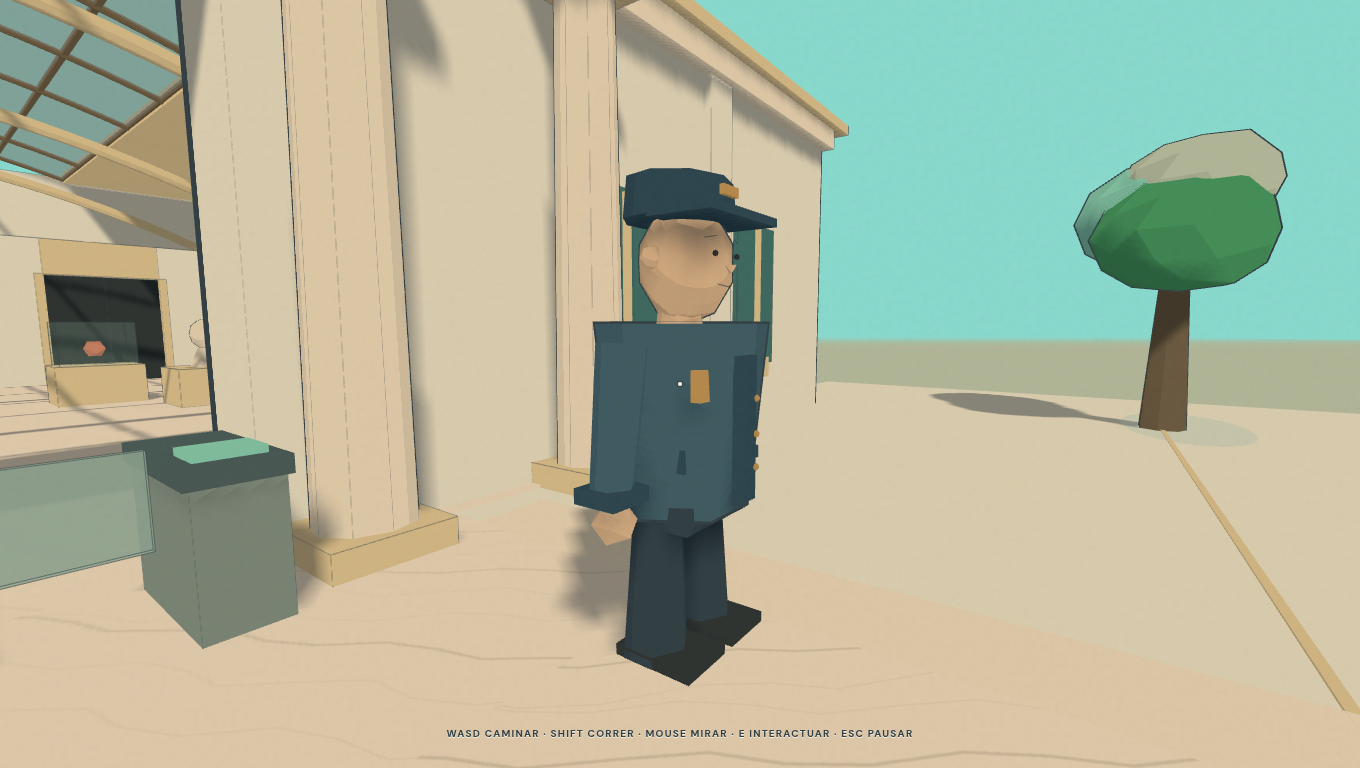
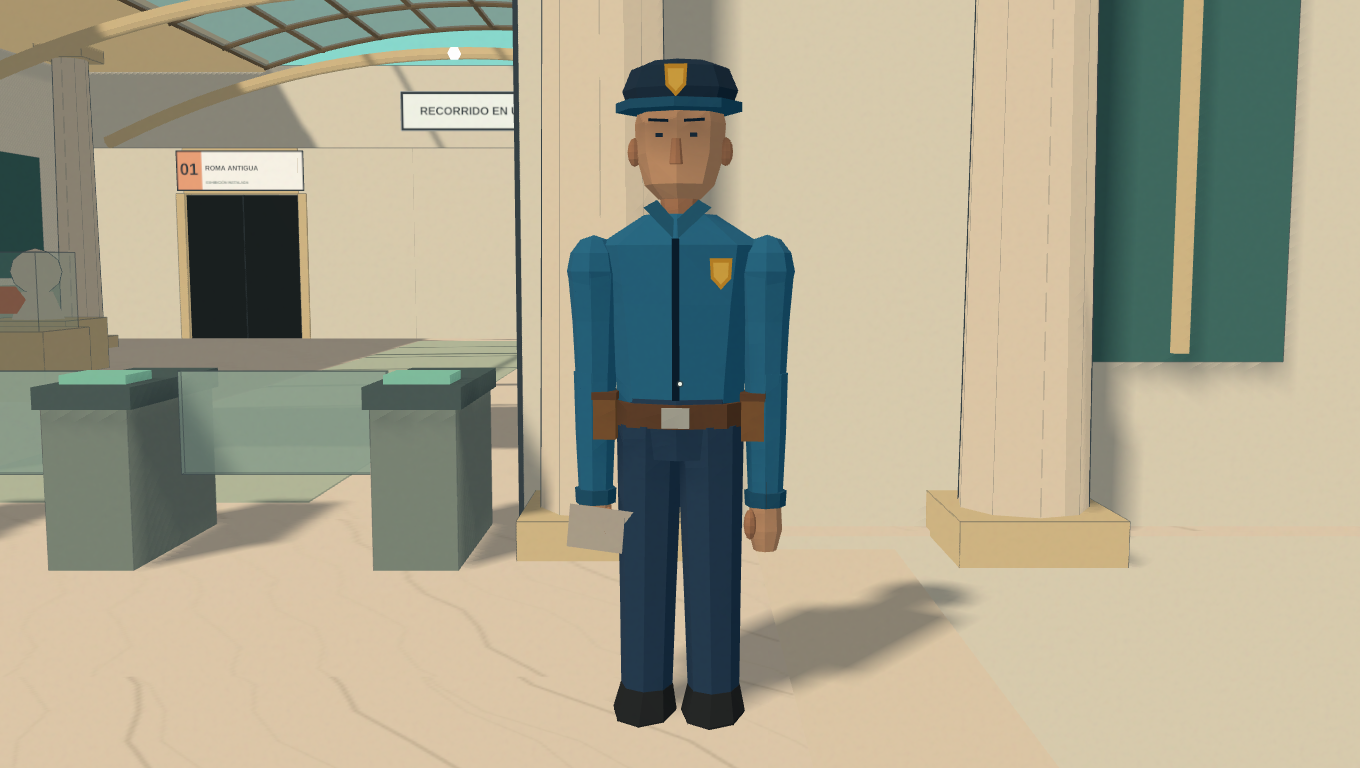
mejora guardia

diff --git a/src/guard.ts b/src/guard.ts
@@ -1,0 +1,212 @@
+import * as THREE from 'three';
+import { mesh, shadowBlob } from './visual';
+
+type Ring = readonly [height: number, halfWidth: number, halfDepth: number, offsetZ?: number];
+
+export type GuardModel = {
+  interaction: THREE.Vector3;
+  handover: () => void;
+  update: (delta: number) => void;
+};
+
+function matte(color: number): THREE.MeshStandardMaterial {
+  return new THREE.MeshStandardMaterial({ color, roughness: 1, metalness: 0, flatShading: true });
+}
+
+// Eight-sided rings keep the silhouette shaped while using only a few triangles per part.
+function loft(rings: readonly Ring[]): THREE.BufferGeometry {
+  const vertices: number[] = [];
+  const indices: number[] = [];
+  for (const [y, width, depth, offsetZ = 0] of rings) {
+    for (let corner = 0; corner < 8; corner++) {
+      const angle = corner * Math.PI / 4;
+      vertices.push(Math.sin(angle) * width, y, Math.cos(angle) * depth + offsetZ);
+    }
+  }
+  for (let ring = 0; ring < rings.length - 1; ring++) {
+    for (let corner = 0; corner < 8; corner++) {
+      const next = (corner + 1) % 8;
+      const lower = ring * 8;
+      const upper = (ring + 1) * 8;
+      indices.push(lower + corner, lower + next, upper + corner);
+      indices.push(lower + next, upper + next, upper + corner);
+    }
+  }
+  const lowerCenter = vertices.length / 3;
+  vertices.push(0, rings[0][0], rings[0][3] ?? 0);
+  const upperCenter = vertices.length / 3;
+  vertices.push(0, rings.at(-1)![0], rings.at(-1)![3] ?? 0);
+  for (let corner = 0; corner < 8; corner++) {
+    const next = (corner + 1) % 8;
+    indices.push(lowerCenter, next, corner);
+    const last = (rings.length - 1) * 8;
+    indices.push(upperCenter, last + corner, last + next);
+  }
+  const indexed = new THREE.BufferGeometry();
+  indexed.setAttribute('position', new THREE.Float32BufferAttribute(vertices, 3));
+  indexed.setIndex(indices);
+  const faceted = indexed.toNonIndexed();
+  faceted.computeVertexNormals();
+  indexed.dispose();
+  return faceted;
+}
+
+function flatPiece(parent: THREE.Object3D, points: Array<[number, number, number]>, material: THREE.Material): void {
+  const geometry = new THREE.BufferGeometry();
+  geometry.setAttribute('position', new THREE.Float32BufferAttribute(points.flat(), 3));
+  geometry.setIndex([0, 1, 2, 0, 2, 3]);
+  const piece = mesh(geometry, material, [0, 0, 0], parent);
+  piece.castShadow = false;
+}
+
+function shield(parent: THREE.Object3D, x: number, y: number, z: number, width: number, height: number, border: THREE.Material, center: THREE.Material): void {
+  const shape = new THREE.Shape();
+  shape.moveTo(-0.5, 0.5);
+  shape.lineTo(0.5, 0.5);
+  shape.lineTo(0.45, -0.18);
+  shape.lineTo(0, -0.55);
+  shape.lineTo(-0.45, -0.18);
+  shape.closePath();
+  const geometry = new THREE.ShapeGeometry(shape);
+  const outer = mesh(geometry, border, [x, y, z], parent);
+  outer.scale.set(width, height, 1);
+  outer.castShadow = false;
+  const inner = mesh(geometry, center, [x, y, z + 0.003], parent);
+  inner.scale.set(width * 0.69, height * 0.69, 1);
+  inner.castShadow = false;
+}
+
+export function createGuard(parent: THREE.Object3D): GuardModel {
+  const shirt = matte(0x287eae);
+  const shirtShade = matte(0x1d648e);
+  const trousers = matte(0x284c71);
+  const navy = matte(0x1b3b58);
+  const shoes = matte(0x222a30);
+  const skin = matte(0xe0b08a);
+  const skinShade = matte(0xc99370);
+  const gold = matte(0xe4aa35);
+  const amber = matte(0xffd15b);
+  const brown = matte(0x715039);
+  const brownLight = matte(0x916842);
+  const silver = matte(0xc7d0cc);
+  const paperMaterial = new THREE.MeshStandardMaterial({ color: 0xf4eedf, roughness: 1, side: THREE.DoubleSide });
+  const flatShirt = new THREE.MeshStandardMaterial({ color: 0x4099c5, roughness: 1, side: THREE.DoubleSide });
+  const flatNavy = new THREE.MeshStandardMaterial({ color: 0x1b3b58, roughness: 1, side: THREE.DoubleSide });
+  const roundedJoint = new THREE.SphereGeometry(1, 8, 6);
+
+  const root = new THREE.Group();
+  root.position.set(3.7, 0, -0.65);
+  root.rotation.y = -0.09;
+  parent.add(root);
+  shadowBlob(3.83, -0.48, 0.45, 0.28, parent);
+
+  mesh(loft([[0.96, 0.195, 0.13], [1.09, 0.22, 0.145], [1.16, 0.205, 0.14]]), trousers, [0, 0, 0], root);
+  for (const side of [-1, 1]) {
+    const leg = new THREE.Group();
+    leg.position.x = side * 0.117;
+    leg.rotation.z = side * 0.015;
+    root.add(leg);
+    mesh(loft([[0.15, 0.088, 0.1], [0.48, 0.096, 0.105], [0.79, 0.105, 0.115], [1.07, 0.113, 0.125]]), trousers, [0, 0, 0], leg);
+    mesh(loft([[0.02, 0.105, 0.18, 0.05], [0.1, 0.108, 0.175, 0.045], [0.17, 0.09, 0.11, -0.005]]), shoes, [0, 0, 0], leg);
+  }
+
+  const upperBody = new THREE.Group();
+  upperBody.position.y = 1.05;
+  root.add(upperBody);
+  mesh(loft([
+    [-0.015, 0.205, 0.13], [0.15, 0.215, 0.135],
+    [0.42, 0.245, 0.145], [0.61, 0.275, 0.15], [0.71, 0.12, 0.1],
+  ]), shirt, [0, 0, 0], upperBody);
+  mesh(loft([[0.015, 0.23, 0.148], [0.095, 0.23, 0.15]]), brown, [0, 0, 0], upperBody);
+  mesh(new THREE.BoxGeometry(0.09, 0.065, 0.018), silver, [0, 0.055, 0.165], upperBody);
+  for (const side of [-1, 1]) {
+    mesh(new THREE.BoxGeometry(0.075, 0.14, 0.12), brownLight, [side * 0.245, 0.04, 0.015], upperBody);
+    mesh(new THREE.BoxGeometry(0.083, 0.025, 0.13), brown, [side * 0.245, 0.115, 0.015], upperBody);
+  }
+  mesh(new THREE.BoxGeometry(0.045, 0.31, 0.065), brown, [0.27, -0.11, 0], upperBody);
+  flatPiece(upperBody, [[-0.012, 0.63, 0.159], [0.012, 0.63, 0.159], [0.012, 0.11, 0.153], [-0.012, 0.11, 0.153]], flatNavy);
+  flatPiece(upperBody, [[-0.11, 0.73, 0.095], [-0.008, 0.63, 0.159], [-0.005, 0.69, 0.16], [-0.067, 0.755, 0.085]], flatShirt);
+  flatPiece(upperBody, [[0.11, 0.73, 0.095], [0.067, 0.755, 0.085], [0.005, 0.69, 0.16], [0.008, 0.63, 0.159]], flatShirt);
+  shield(upperBody, 0.145, 0.52, 0.16, 0.072, 0.095, gold, amber);
+
+  const headRig = new THREE.Group();
+  headRig.position.y = 0.755;
+  upperBody.add(headRig);
+  mesh(loft([[0, 0.06, 0.065], [0.12, 0.07, 0.075]]), skinShade, [0, -0.055, 0], headRig);
+  mesh(loft([[0.005, 0.07, 0.075, 0.022], [0.05, 0.115, 0.11, 0.018], [0.15, 0.145, 0.12], [0.25, 0.15, 0.125, -0.01], [0.315, 0.135, 0.115, -0.015]]), skin, [0, 0, 0], headRig);
+  for (const side of [-1, 1]) {
+    const ear = mesh(roundedJoint, skinShade, [side * 0.15, 0.16, -0.005], headRig);
+    ear.scale.set(0.024, 0.047, 0.024);
+    mesh(new THREE.BoxGeometry(0.022, 0.012, 0.007), navy, [side * 0.055, 0.202, 0.127], headRig);
+    flatPiece(headRig, [[side * 0.09, 0.246, 0.122], [side * 0.025, 0.242, 0.132], [side * 0.025, 0.251, 0.133], [side * 0.09, 0.255, 0.123]], flatNavy);
+  }
+  mesh(loft([[0.11, 0.022, 0.018, 0.137], [0.19, 0.015, 0.015, 0.135]]), skinShade, [0, 0, 0], headRig);
+  flatPiece(headRig, [[-0.035, 0.078, 0.111], [0.035, 0.078, 0.111], [0.03, 0.081, 0.112], [-0.03, 0.081, 0.112]], flatNavy);
+  mesh(loft([[0.285, 0.165, 0.125], [0.355, 0.19, 0.14], [0.425, 0.16, 0.12], [0.445, 0.105, 0.09]]), navy, [0, 0, 0], headRig);
+  mesh(loft([[0.282, 0.205, 0.165, 0.045], [0.312, 0.205, 0.165, 0.045]]), shirtShade, [0, 0, 0], headRig);
+  shield(headRig, 0, 0.372, 0.147, 0.073, 0.097, gold, amber);
+
+  const arms: Array<{ shoulder: THREE.Group; elbow: THREE.Group }> = [];
+  let givingShoulder: THREE.Group | null = null;
+  let givingElbow: THREE.Group | null = null;
+  let pamphlet: THREE.Mesh | null = null;
+  for (const side of [-1, 1]) {
+    const shoulder = new THREE.Group();
+    shoulder.position.set(side * 0.272, 0.58, 0);
+    upperBody.add(shoulder);
+    const shoulderCap = mesh(roundedJoint, shirt, [side * 0.015, -0.055, 0], shoulder);
+    shoulderCap.scale.set(0.092, 0.12, 0.105);
+    mesh(loft([[-0.42, 0.068, 0.075], [-0.22, 0.078, 0.083], [-0.06, 0.092, 0.1]]), shirt, [side * 0.012, 0, 0], shoulder);
+    const elbow = new THREE.Group();
+    elbow.position.set(side * 0.015, -0.405, 0);
+    shoulder.add(elbow);
+    const joint = mesh(roundedJoint, shirt, [0, 0, 0], elbow);
+    joint.scale.set(0.07, 0.075, 0.075);
+    mesh(loft([[-0.39, 0.058, 0.064], [-0.19, 0.067, 0.071], [0.015, 0.072, 0.076]]), shirt, [0, 0, 0], elbow);
+    mesh(loft([[-0.43, 0.068, 0.072], [-0.38, 0.071, 0.075]]), shirtShade, [0, 0, 0], elbow);
+    mesh(loft([[-0.59, 0.039, 0.04], [-0.52, 0.057, 0.05], [-0.425, 0.052, 0.05]]), skin, [0, 0.008, 0], elbow);
+    const thumb = mesh(roundedJoint, skinShade, [-side * 0.049, -0.49, 0.035], elbow);
+    thumb.scale.set(0.022, 0.052, 0.027);
+    if (side === -1) {
+      pamphlet = mesh(new THREE.PlaneGeometry(0.24, 0.17), paperMaterial, [0.038, -0.51, 0.072], elbow);
+      pamphlet.rotation.x = 0.35;
+      pamphlet.rotation.z = -0.14;
+      pamphlet.castShadow = false;
+      givingShoulder = shoulder;
+      givingElbow = elbow;
+    }
+    arms.push({ shoulder, elbow });
+  }
+
+  let elapsed = 0;
+  let handoff = -1;
+  let delivered = false;
+  return {
+    interaction: new THREE.Vector3(3.7, 1.45, -0.65),
+    handover: () => { if (!delivered) handoff = 0.001; },
+    update: (delta) => {
+      elapsed += delta;
+      upperBody.scale.y = 1 + Math.sin(elapsed * 1.55) * 0.006;
+      headRig.rotation.y = Math.sin(elapsed * 0.68) * 0.055;
+      arms[1].shoulder.rotation.x = -0.06 + Math.sin(elapsed * 1.2) * 0.018;
+      arms[1].elbow.rotation.x = -0.12;
+      let reach = 0;
+      if (handoff >= 0) {
+        handoff += delta;
+        const extend = THREE.MathUtils.smoothstep(handoff, 0, 0.48);
+        const retract = 1 - THREE.MathUtils.smoothstep(handoff, 1.25, 1.85);
+        reach = Math.min(extend, retract);
+        if (handoff >= 1.24) pamphlet!.visible = false;
+        if (handoff >= 1.85) {
+          handoff = -1;
+          delivered = true;
+        }
+      }
+      givingShoulder!.rotation.x = -0.15 - reach * 0.55;
+      givingShoulder!.rotation.z = -0.065;
+      givingElbow!.rotation.x = -0.2 - reach * 0.2;
+      arms[1].shoulder.rotation.z = 0.065;
+      headRig.rotation.y -= reach * 0.075;
+    },
+  };
+}

diff --git a/src/museum.ts b/src/museum.ts
@@ -1,9 +1,10 @@
 import * as THREE from 'three';
 import type { AreaId } from './catalog';
 import { createGallery, galleryLayout, type GalleryDoor, type GalleryRoom } from './gallery';
+import { createGuard } from './guard';
 import { installRomeExhibit } from './rome';
 import type { Collider } from './scene';
-import { box, inkStroke, irregularCrown, materials as mat, mesh, outline, palette, shadowBlob, silhouette, toon } from './visual';
+import { box, irregularCrown, materials as mat, mesh, outline, palette, shadowBlob, silhouette, toon } from './visual';
 
 export type MuseumWorld = {
   scene: THREE.Scene;
@@ -100,69 +101,6 @@ function pyramid(parent: THREE.Object3D, x: number, z: number): void {
     const mullion = new THREE.Line(new THREE.BufferGeometry().setFromPoints([mid, apex]), new THREE.LineBasicMaterial({ color: 0x477f80, transparent: true, opacity: 0.55 }));
     parent.add(mullion);
   });
-}
-
-function guard(parent: THREE.Object3D): { arm: THREE.Group; paper: THREE.Mesh } {
-  const figure = new THREE.Group();
-  figure.position.set(3.7, 0, -0.65);
-  parent.add(figure);
-  shadowBlob(3.83, -0.48, 0.6, 0.34, parent);
-  const jacket = toon(0x486e82);
-  const jacketShade = toon(0x355569);
-  const trousers = toon(0x394e5d);
-  const skin = toon(0xe6c9a8);
-  for (const side of [-1, 1]) {
-    const leg = mesh(new THREE.CylinderGeometry(0.13, 0.17, 0.75, 6), trousers, [side * 0.19, 0.44, 0], figure);
-    leg.rotation.z = side * 0.035;
-    box(0.31, 0.15, 0.43, mat.ink, [side * 0.19, 0.075, 0.08], figure);
-  }
-  const coat = mesh(new THREE.CylinderGeometry(0.43, 0.34, 0.9, 6), jacket, [0, 1.25, 0], figure);
-  coat.rotation.y = Math.PI / 6;
-  silhouette(coat, 1.023);
-  box(0.16, 0.69, 0.035, jacketShade, [0, 1.21, 0.37], figure);
-  box(0.54, 0.12, 0.46, trousers, [0, 0.8, 0], figure);
-  box(0.53, 0.11, 0.38, jacketShade, [0, 1.08, 0.02], figure);
-  box(0.13, 0.07, 0.04, mat.gold, [0, 1.08, 0.25], figure);
-  box(0.22, 0.1, 0.045, mat.sand, [0.24, 1.48, 0.29], figure);
-  box(0.085, 0.14, 0.05, mat.gold, [-0.25, 1.43, 0.29], figure);
-  for (const y of [1.35, 1.18, 1.02]) {
-    mesh(new THREE.SphereGeometry(0.018, 6, 4), mat.gold, [0.075, y, 0.39], figure).castShadow = false;
-  }
-  const neck = mesh(new THREE.CylinderGeometry(0.11, 0.13, 0.17, 6), skin, [0, 1.75, 0], figure);
-  neck.castShadow = false;
-  const head = mesh(new THREE.IcosahedronGeometry(0.27, 1), skin, [0, 1.99, 0.035], figure);
-  head.scale.set(0.9, 1.08, 0.86);
-  silhouette(head, 1.025);
-  for (const side of [-1, 1]) {
-    mesh(new THREE.SphereGeometry(0.055, 6, 4), skin, [side * 0.235, 2.0, 0.01], figure);
-    const eye = mesh(new THREE.SphereGeometry(0.014, 6, 4), mat.ink, [side * 0.095, 2.015, 0.264], figure);
-    eye.castShadow = false;
-    inkStroke([[side * 0.15, 2.08, 0.24], [side * 0.075, 2.095, 0.26]], figure, 0.72);
-  }
-  const nose = mesh(new THREE.TetrahedronGeometry(0.035), skin, [0, 1.95, 0.287], figure);
-  nose.castShadow = false;
-  inkStroke([[-0.06, 1.88, 0.255], [0, 1.87, 0.275], [0.06, 1.88, 0.255]], figure, 0.7);
-  const cap = mesh(new THREE.CylinderGeometry(0.29, 0.31, 0.19, 9), jacketShade, [0, 2.28, 0], figure);
-  cap.scale.z = 0.85;
-  box(0.6, 0.04, 0.34, jacketShade, [0, 2.19, 0.2], figure);
-  box(0.13, 0.045, 0.025, mat.gold, [0, 2.3, 0.276], figure);
-  let givingArm: THREE.Group | null = null;
-  let paper: THREE.Mesh | null = null;
-  for (const side of [-1, 1]) {
-    const arm = new THREE.Group();
-    arm.position.set(side * 0.42, 1.59, 0);
-    figure.add(arm);
-    const sleeve = mesh(new THREE.CylinderGeometry(0.125, 0.1, 0.68, 6), jacket, [side * 0.05, -0.32, 0], arm);
-    sleeve.rotation.z = side * 0.13;
-    box(0.23, 0.07, 0.23, jacketShade, [side * 0.09, -0.63, 0], arm);
-    mesh(new THREE.IcosahedronGeometry(0.105, 0), skin, [side * 0.09, -0.75, 0.015], arm);
-    if (side === -1) {
-      paper = box(0.34, 0.42, 0.026, mat.cream, [-0.09, -0.81, 0.16], arm);
-      paper.visible = false;
-      givingArm = arm;
-    }
-  }
-  return { arm: givingArm!, paper: paper! };
 }
 
 function marbleMaterial(): THREE.MeshToonMaterial {
@@ -317,7 +255,7 @@ export function createMuseumScene(): MuseumWorld {
   outline(mesh(new THREE.ExtrudeGeometry(pediment, { depth: 0.35, bevelEnabled: false }), mat.cream, [0, 0, -4.3], scene), 0.6);
   sign(scene, 'MUSEO DEL TIEMPO', [0, 4.77, -3.44], 3.35);
   const entranceGate = turnstiles(scene);
-  const attendant = guard(scene);
+  const attendant = createGuard(scene);
 
   // The original hall leads to the first room and later receives the returning route.
   box(17, 0.14, 18, marble, [0, 0.02, -12.4], scene).castShadow = false;
@@ -394,12 +332,10 @@ export function createMuseumScene(): MuseumWorld {
   }
   let entranceOpening = false;
   let entranceProgress = 0;
-  let handoffTime = 0;
-
   return {
     scene,
     colliders,
-    guard: new THREE.Vector3(3.7, 1.45, -0.65),
+    guard: attendant.interaction,
     rooms: gallery.rooms,
     doors: gallery.doors,
     exhibits,
@@ -409,31 +345,18 @@ export function createMuseumScene(): MuseumWorld {
     )) ?? null,
     openEntrance: () => {
       entranceOpening = true;
-      handoffTime = 0.001;
-      attendant.paper.visible = true;
+      attendant.handover();
     },
     openDoor: (door) => {
       if (!door.opening && door.progress === 0) door.opening = true;
     },
     update: (delta) => {
+      attendant.update(delta);
       if (entranceOpening && entranceProgress < 1) {
         entranceProgress = Math.min(1, entranceProgress + delta * 1.3);
         entranceGate.wings[0].rotation.y = entranceProgress * 1.35;
         entranceGate.wings[1].rotation.y = -entranceProgress * 1.35;
         if (entranceProgress === 1) colliders.splice(colliders.indexOf(doorBlock), 1);
-      }
-      if (handoffTime > 0) {
-        handoffTime += delta;
-        const raised = Math.min(handoffTime / 0.4, 1);
-        const lowered = Math.max(0, 1 - (handoffTime - 1.1) / 0.7);
-        attendant.arm.rotation.x = -1.05 * Math.min(raised, lowered);
-        if (handoffTime > 1.1) {
-          attendant.paper.visible = false;
-        }
-        if (handoffTime > 1.8) {
-          attendant.arm.rotation.x = 0;
-          handoffTime = 0;
-        }
       }
       gallery.update(delta);
       for (const door of gallery.doors) {

diff --git a/docs/Revision_visual_entrada.md b/docs/Revision_visual_entrada.md
@@ -7,19 +7,20 @@ Esta revisión vuelve sobre la llegada del jugador al museo, ya implementada en 
 | Vista | Captura | Qué observar |
 | --- | --- | --- |
 | Acceso completo | [Ver modelo](capturas/entrada-modelo-general.png) | Pórtico abierto, guardia a la derecha y hall visible desde el patio. |
-| Guardia | [Ver modelo](capturas/entrada-modelo-guardia.png) | Gorra, chaqueta, rostro y nueva silueta de brazos y piernas. |
+| Guardia | [Ver modelo](capturas/entrada-modelo-guardia.png) | Silueta delgada, camisa azul sencilla, escudos y cinturón utilitario en la escena del museo. |
+| Entrega del panfleto | [Ver pose](capturas/entrada-modelo-entrega.png) | Brazo extendido hacia el visitante y panfleto visible. |
 | Molinetes cerrados | [Ver modelo](capturas/entrada-modelo-molinetes.png) | Cuatro cuerpos, tres pasos y hojas transparentes. |
 | Paso central abierto | [Ver modelo](capturas/entrada-modelo-paso-abierto.png) | Apertura de las dos hojas centrales tras recibir el panfleto. |
 | Interior | [Ver modelo](capturas/entrada-modelo-hall.png) | Ritmo de arcos, techo vidriado y sombras sobre el suelo. |
 
-Las capturas se tomaron en Chrome desde cámaras de inspección colocadas a la altura de los ojos. Los modelos son geometría y materiales de Three.js en `src/museum.ts`; el mármol usa vetas dibujadas en un canvas, sin fotografías externas.
+Las capturas se tomaron en Chrome desde cámaras de inspección colocadas a la altura de los ojos. El entorno usa geometría y materiales de Three.js en `src/museum.ts`; el guardia se modela en `src/guard.ts`. El mármol usa vetas dibujadas en un canvas, sin fotografías externas.
 
 ## Cambios y comprobaciones
 
 - La puerta maciza fue reemplazada por un pórtico visible desde el patio. Los molinetes mantienen cerrado el acceso hasta la interacción con el guardia; entonces se abren las hojas centrales y se elimina su bloqueo de colisión.
-- El guardia recibió uniforme azul, gorra, chaqueta entallada, extremidades menos rectangulares y una colisión situada sobre el modelo nuevo.
+- El guardia recibió un cuerpo de secciones facetadas con hombros estrechos, torso y brazos delgados, piernas largas y rostro anguloso. La nueva referencia se refleja en la camisa azul lisa, los escudos de la gorra y del pecho y el cinturón utilitario. Los brazos, codos, cabeza y torso conservan una jerarquía sencilla para la respiración, la mirada y la entrega del panfleto.
 - El hall recibió arcos repetidos, tragaluz curvo, sombra proyectada y suelo claro con vetas suaves. El primer tramo del techo se retranqueó para que no sobresalga de la fachada.
 - Se corrigieron las uniones de la fachada: la pared y las bases de las columnas apoyan en el suelo; los capiteles exteriores llegan a la cornisa y los interiores al techo lateral. Las capturas de esta revisión muestran la geometría corregida.
 - En Chrome se comprobó que **E** entrega el panfleto y abre los molinetes. Las vistas antes y después muestran el paso central despejado. Queda pendiente una caminata manual completa desde el patio hasta el hall en un equipo con aceleración gráfica: Chrome sin GPU disponible se cerró durante la pasada automatizada larga.
 
-Comparar estas vistas con las [capturas de la etapa 3](Revision_etapa_3.md#capturas-de-inspección) antes de ampliar el detalle de otros espacios. La siguiente decisión visual útil es ajustar las proporciones del guardia y el contraste de las vetas mirando estas capturas en el equipo de desarrollo.
+Comparar estas vistas con las [capturas de la etapa 3](Revision_etapa_3.md#capturas-de-inspección) antes de ampliar el detalle de otros espacios.
